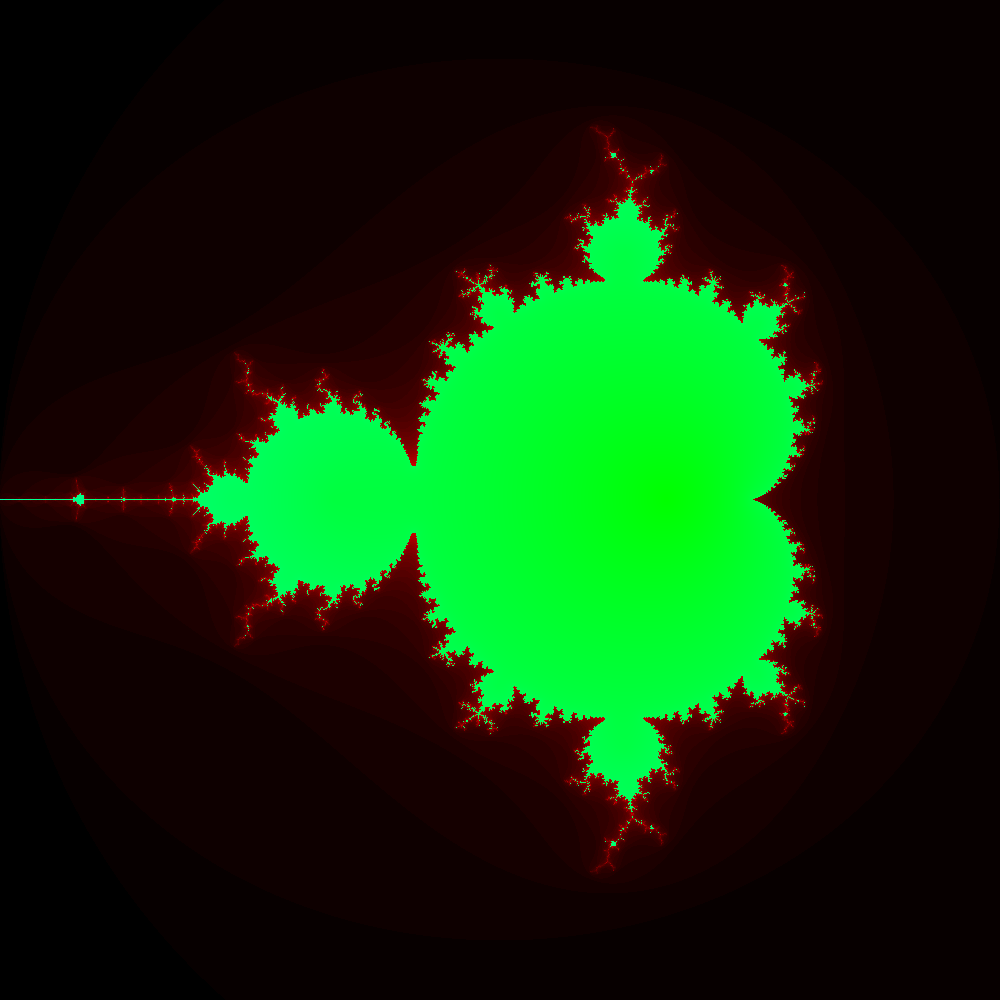
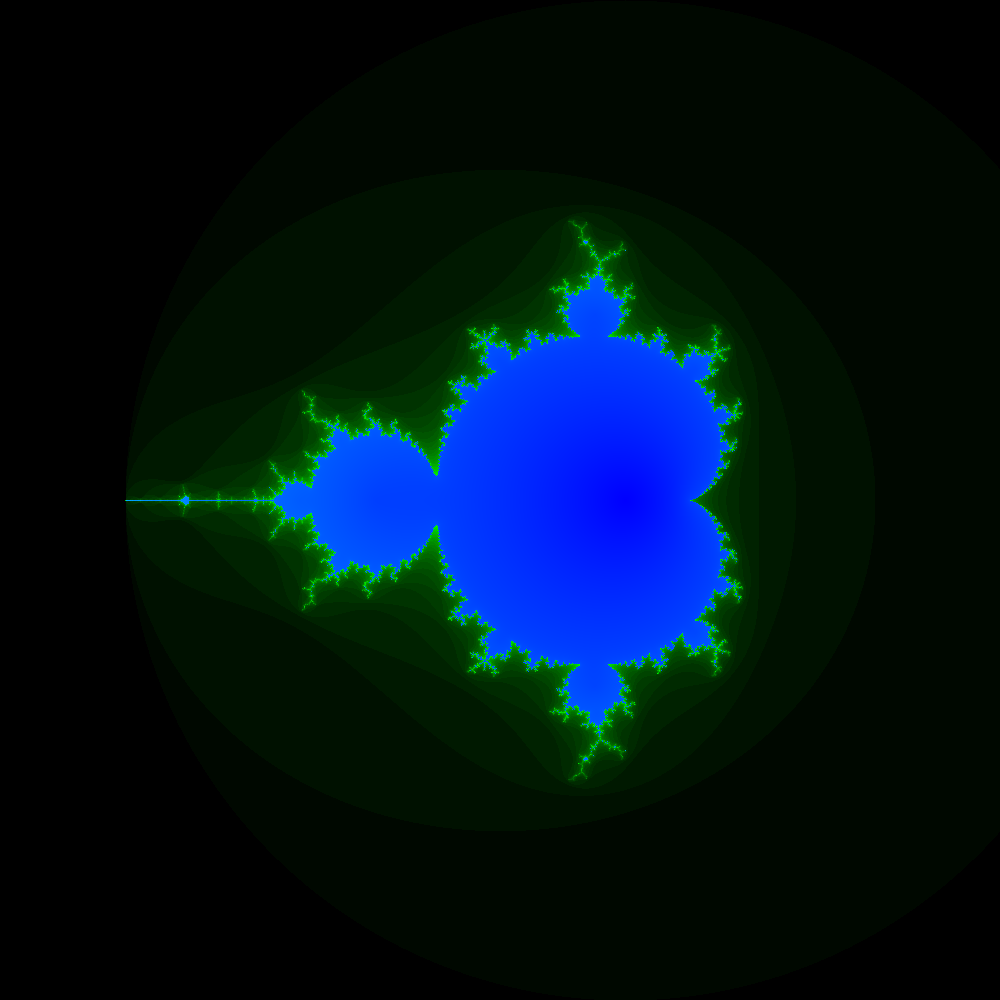
Cv7 base completed

diff --git a/src/IV122/CV7.java b/src/IV122/CV7.java
@@ -14,27 +14,65 @@ public class CV7 {
         
         //Newton fractals
         ImgB.init(width, height, "NewtonFractal");
-            //newton(-3,-3,6);
+            newton(-3,-3,6);
         ImgB.save();
         //Mandelbrot
         ImgB.init(width, height, "Mandelbrot");
-            mandelbrot(-2,-1.5,3);
+            mandelbrot(-2.5,-2,4,4,0,0);
         ImgB.save();
-        //Julie
+        //Julia
+        ImgB.init(width, height, "JuliaSet");
+            julia(-2,-2,4,4,-0.13,0.75);
+        ImgB.save();
     }
     
-    public static void mandelbrot(double sX, double sY, double size) {
-        double x = 0, y = 0, oldX = 0;
-        double addX = size/(double)width;
-        double addY = size/(double)height;
-        for (double cX = sX; cX < sX+size; cX+=addX) {
-            for (double cY = sY; cY < sY+size; cY+=addY) {
-                x = 0;
-                y = 0;
+    public static void julia(double sX, double sY, double sizeX, double sizeY, double cX, double cY) {
+        double oldX = 0;
+        double addX = sizeX/(double)width;
+        double addY = sizeY/(double)height;
+        int maxIters = 50;
+        for (double x = sX; x < sX+sizeX; x+=addX) {
+            for (double y = sY; y < sY+sizeY; y+=addY) {
+                double zX = x;
+                double zY = y;
                 int i = 0;
                 double sum = 0;
                 double distance = 0;
-                for (i = 0; i < 30; i++) {
+                for (i = 0; i < maxIters; i++) {
+                    oldX = zX*zX-zY*zY+cX;
+                    zY = 2*zX*zY+cY;
+                    zX = oldX;
+                    
+                    distance = Math.sqrt(zX*zX+zY*zY);
+                    if (distance > 2) {
+                        break;
+                    }
+                    sum += distance;
+                }
+                sum = Math.min(2,sum/(double)maxIters);
+                
+                if (i == maxIters) {
+                    ImgB.putPixel((int)((x-sX)/addX), (int)((y-sY)/addY),0,(int)(127*sum),255);
+                } else {
+                    ImgB.putPixel((int)((x-sX)/addX), (int)((y-sY)/addY),0,(int)(255 * i/maxIters),0);
+                }
+            }
+        }
+    }
+    
+    public static void mandelbrot(double sX, double sY, double sizeX, double sizeY, double zX, double zY) {
+        double x,y,oldX = 0;
+        double addX = sizeX/(double)width;
+        double addY = sizeY/(double)height;
+        int maxIters = 30;
+        for (double cX = sX; cX < sX+sizeX; cX+=addX) {
+            for (double cY = sY; cY < sY+sizeY; cY+=addY) {
+                x = zX;
+                y = zY;
+                int i = 0;
+                double sum = 0;
+                double distance = 0;
+                for (i = 0; i < maxIters; i++) {
                     oldX = x*x-y*y+cX;
                     y = 2*x*y+cY;
                     x = oldX;
@@ -45,12 +83,12 @@ public class CV7 {
                     }
                     sum += distance;
                 }
-                sum = sum/(double)30;
+                sum = Math.min(2,sum/(double)maxIters);
                 
-                if (i == 30) {
-                    ImgB.putPixel((int)((cX-sX)/addX), (int)((cY-sY)/addY),0,255,(int)(127*sum));
+                if (i == maxIters) {
+                    ImgB.putPixel((int)((cX-sX)/addX), (int)((cY-sY)/addY),0,(int)(127*sum),255);
                 } else {
-                    ImgB.putPixel((int)((cX-sX)/addX), (int)((cY-sY)/addY),7*i,0,0);
+                    ImgB.putPixel((int)((cX-sX)/addX), (int)((cY-sY)/addY),0,(int)(255 * i/maxIters),0);
                 }
                 
             }
